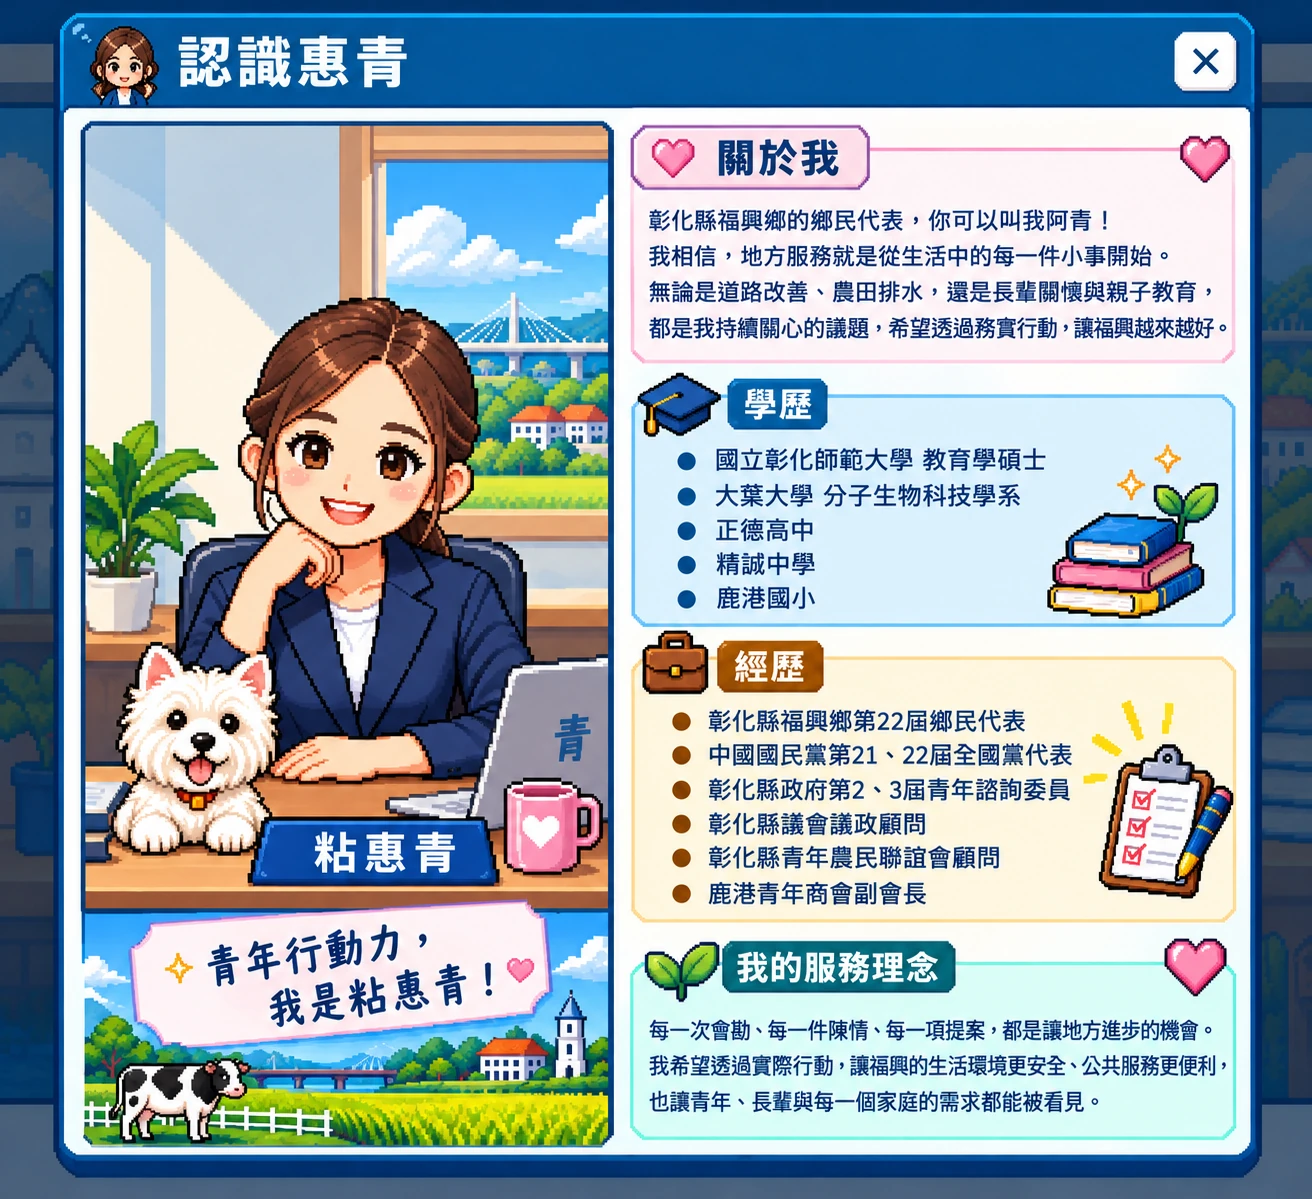
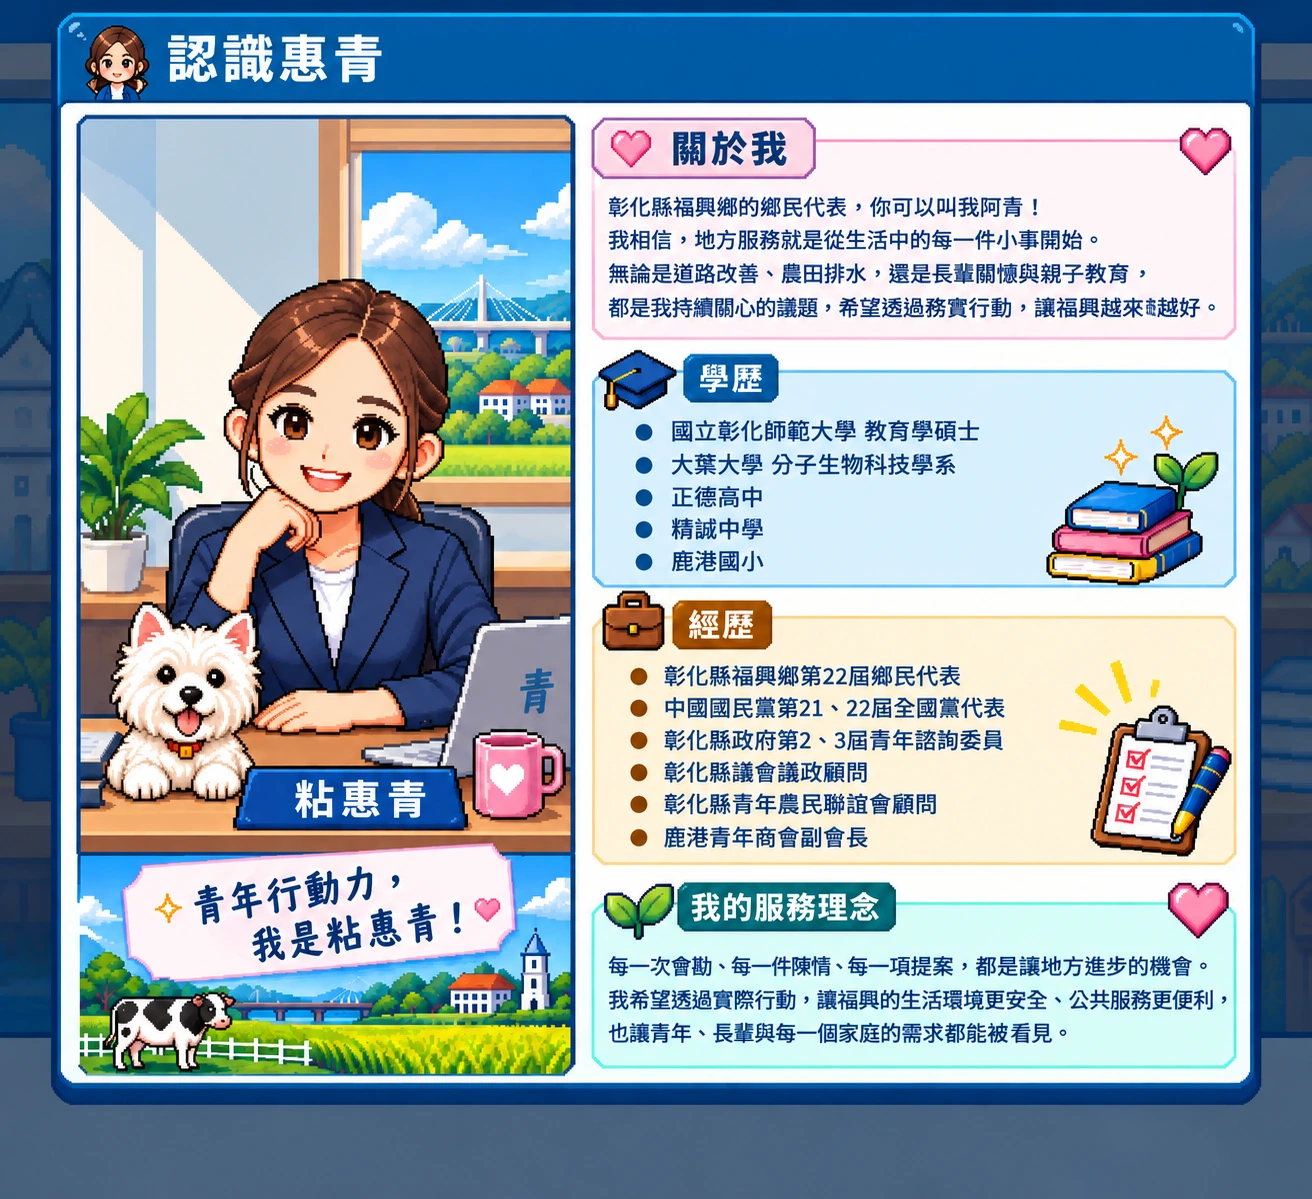
Add files via upload

diff --git a/index.html b/index.html
@@ -5,7 +5,7 @@
 <meta name="theme-color" content="#123e73"><meta name="description" content="粘惠青｜彰化縣福興鄉民代表，認識惠青、服務成果、活動訊息與聯絡資訊。">
 <title>粘惠青｜雲端競選總部</title>
 <style>
-:root{--navy:#123e73;--deep:#0b2e57;--ink:#18385d;--paper:#fffdf8}*{box-sizing:border-box}html{scroll-behavior:smooth}body{margin:0;background:#e8f3ff;color:var(--ink);font-family:system-ui,-apple-system,"Noto Sans TC",sans-serif}button,a{font:inherit}button{cursor:pointer}.site-header{background:var(--navy);color:#fff;display:flex;align-items:center;justify-content:space-between;gap:18px;padding:16px clamp(16px,5vw,68px);min-height:90px}.brand{display:flex;align-items:center;gap:16px}.brand-name{font-size:clamp(28px,3vw,45px);font-weight:900;letter-spacing:.12em;text-shadow:3px 3px #0b2e57}.brand-name span{color:#ff91b6;font-size:.6em}.brand-sub{font-size:clamp(12px,1.2vw,16px);line-height:1.5;letter-spacing:.05em}.nav{display:flex;gap:22px}.nav button,.menu-button{background:none;border:0;color:white;font-weight:700}.nav button:hover,.nav button:focus-visible{text-decoration:underline;text-underline-offset:8px}.menu-button{display:none;font-size:26px}.scene{max-width:1536px;margin:auto;position:relative;overflow:hidden;background:#9dd4fb}.scene img{display:block;width:100%;height:auto;image-rendering:auto}.dog-tip{position:absolute;left:17%;bottom:13%;border:2px solid #194b7d;background:#fffaf0;border-radius:12px;padding:8px 12px;box-shadow:4px 4px 0 #194b7d;font-weight:800;transform:rotate(-4deg);animation:bob 3s ease-in-out infinite}.dog-tip[hidden]{display:none}@keyframes bob{50%{transform:translateY(-7px) rotate(-4deg)}}.quick{max-width:1200px;margin:-8px auto 0;padding:18px 18px 32px;display:grid;grid-template-columns:repeat(4,1fr);gap:16px}.tile{border:3px solid #286199;box-shadow:5px 5px 0 #163e6b;border-radius:13px;padding:22px 12px;min-height:118px;display:flex;align-items:center;justify-content:center;gap:12px;font-size:clamp(16px,1.8vw,23px);font-weight:900;color:#103968;transition:transform .15s,box-shadow .15s}.tile:hover,.tile:focus-visible{transform:translateY(-5px);box-shadow:5px 10px 0 #163e6b}.tile .emoji{font-size:30px}.pink{background:#ffe8f1}.blue{background:#d8eeff}.cream{background:#fff1d8}.mint{background:#dcfaf2}.foot{text-align:center;padding:20px 12px 32px;color:#426387;font-size:13px}.overlay{position:fixed;inset:0;background:#092849ba;display:grid;place-items:center;padding:18px;z-index:5}.overlay[hidden]{display:none}.modal{background:var(--paper);border:4px solid #184b80;border-radius:15px;box-shadow:8px 8px 0 #072c53;max-width:570px;width:100%;max-height:85vh;overflow:auto}.modal-head{background:#184b80;color:white;display:flex;align-items:center;justify-content:space-between;padding:16px 20px;font-size:22px;font-weight:900}.close{border:2px solid white;border-radius:8px;background:#fff;color:#184b80;font-weight:900;width:38px;height:38px}.modal-body{padding:24px;font-size:16px;line-height:1.85}.modal-body h3{margin:12px 0 6px}.modal-body p{margin:8px 0 14px}.modal-body ul{padding-left:24px}.pill{display:inline-block;background:#e6f2ff;border:1px solid #a6c8e9;border-radius:99px;padding:4px 12px;margin:4px}.note{font-size:13px;color:#667a91}.contact{display:inline-block;background:#184b80;color:white;text-decoration:none;padding:8px 15px;border-radius:8px;margin-top:8px}.dog-trigger{position:absolute;left:11%;bottom:5%;width:24%;height:31%;background:transparent;border:0}.dog-trigger:focus-visible{outline:4px solid #ff8aa8;outline-offset:-4px}.modal.profile-mode{max-width:1100px;background:transparent;border:0;box-shadow:none;border-radius:0;overflow:visible;max-height:92vh}.profile-mode .modal-head{display:none}.profile-mode .modal-body{padding:0;max-height:92vh;overflow:auto;border-radius:12px;position:relative}.profile-card-img{display:block;width:100%;height:auto}.profile-close{position:sticky;float:right;z-index:2;top:10px;margin:14px 22px -60px 0;width:46px;height:46px;background:#fff;color:#123e73;border:2px solid #123e73;border-radius:8px;font-size:25px;font-weight:900}.profile-mobile-note{display:none}.profile-accessible{position:absolute;width:1px;height:1px;overflow:hidden;clip-path:inset(50%);white-space:nowrap}.mobile-nav{display:none}@media(max-width:760px){.modal.profile-mode{width:100%;max-height:90vh}.profile-mode .modal-body{max-height:88vh}.profile-card-img{width:760px;max-width:none}.profile-mobile-note{display:block;text-align:center;font-size:12px;background:#fff7e9;padding:7px;color:#123e73}.profile-close{margin:8px 10px -54px 0;width:40px;height:40px}.site-header{min-height:76px;padding:10px 14px}.brand{gap:10px}.brand-name{font-size:27px}.brand-sub{font-size:11px}.nav{display:none}.menu-button{display:block}.mobile-nav{background:#17497d;padding:12px;display:grid;grid-template-columns:repeat(2,1fr);gap:8px}.mobile-nav[hidden]{display:none}.mobile-nav button{padding:10px;color:#fff;background:#246096;border:1px solid #8bb9e6;border-radius:7px;font-weight:700}.scene img{width:100%}.dog-tip{left:8%;bottom:10%;font-size:11px;padding:5px}.quick{grid-template-columns:repeat(2,1fr);gap:11px;padding:16px 13px 24px}.tile{min-height:95px;padding:12px 5px;flex-direction:column;gap:5px;font-size:17px}.tile .emoji{font-size:25px}.dog-trigger{left:4%;width:29%}}@media(prefers-reduced-motion:reduce){*,*:before,*:after{animation:none!important;transition:none!important}}
+:root{--navy:#123e73;--deep:#0b2e57;--ink:#18385d;--paper:#fffdf8}*{box-sizing:border-box}html{scroll-behavior:smooth}body{margin:0;background:#e8f3ff;color:var(--ink);font-family:system-ui,-apple-system,"Noto Sans TC",sans-serif}button,a{font:inherit}button{cursor:pointer}.site-header{background:var(--navy);color:#fff;display:flex;align-items:center;justify-content:space-between;gap:18px;padding:16px clamp(16px,5vw,68px);min-height:90px}.brand{display:flex;align-items:center;gap:16px}.brand-name{font-size:clamp(28px,3vw,45px);font-weight:900;letter-spacing:.12em;text-shadow:3px 3px #0b2e57}.brand-name span{color:#ff91b6;font-size:.6em}.brand-sub{font-size:clamp(12px,1.2vw,16px);line-height:1.5;letter-spacing:.05em}.nav{display:flex;gap:22px}.nav button,.menu-button{background:none;border:0;color:white;font-weight:700}.nav button:hover,.nav button:focus-visible{text-decoration:underline;text-underline-offset:8px}.menu-button{display:none;font-size:26px}.scene{max-width:1536px;margin:auto;position:relative;overflow:hidden;background:#9dd4fb}.scene img{display:block;width:100%;height:auto;image-rendering:auto}.dog-tip{position:absolute;left:17%;bottom:13%;border:2px solid #194b7d;background:#fffaf0;border-radius:12px;padding:8px 12px;box-shadow:4px 4px 0 #194b7d;font-weight:800;transform:rotate(-4deg);animation:bob 3s ease-in-out infinite}.dog-tip[hidden]{display:none}@keyframes bob{50%{transform:translateY(-7px) rotate(-4deg)}}.quick{max-width:1200px;margin:-8px auto 0;padding:18px 18px 32px;display:grid;grid-template-columns:repeat(4,1fr);gap:16px}.tile{border:3px solid #286199;box-shadow:5px 5px 0 #163e6b;border-radius:13px;padding:22px 12px;min-height:118px;display:flex;align-items:center;justify-content:center;gap:12px;font-size:clamp(16px,1.8vw,23px);font-weight:900;color:#103968;transition:transform .15s,box-shadow .15s}.tile:hover,.tile:focus-visible{transform:translateY(-5px);box-shadow:5px 10px 0 #163e6b}.tile .emoji{font-size:30px}.pink{background:#ffe8f1}.blue{background:#d8eeff}.cream{background:#fff1d8}.mint{background:#dcfaf2}.foot{text-align:center;padding:20px 12px 32px;color:#426387;font-size:13px}.overlay{position:fixed;inset:0;background:#092849ba;display:grid;place-items:center;padding:18px;z-index:5}.overlay[hidden]{display:none}.modal{background:var(--paper);border:4px solid #184b80;border-radius:15px;box-shadow:8px 8px 0 #072c53;max-width:570px;width:100%;max-height:85vh;overflow:auto}.modal-head{background:#184b80;color:white;display:flex;align-items:center;justify-content:space-between;padding:16px 20px;font-size:22px;font-weight:900}.close{border:2px solid white;border-radius:8px;background:#fff;color:#184b80;font-weight:900;width:38px;height:38px}.modal-body{padding:24px;font-size:16px;line-height:1.85}.modal-body h3{margin:12px 0 6px}.modal-body p{margin:8px 0 14px}.modal-body ul{padding-left:24px}.pill{display:inline-block;background:#e6f2ff;border:1px solid #a6c8e9;border-radius:99px;padding:4px 12px;margin:4px}.note{font-size:13px;color:#667a91}.contact{display:inline-block;background:#184b80;color:white;text-decoration:none;padding:8px 15px;border-radius:8px;margin-top:8px}.dog-trigger{position:absolute;left:11%;bottom:5%;width:24%;height:31%;background:transparent;border:0}.dog-trigger:focus-visible{outline:4px solid #ff8aa8;outline-offset:-4px}.modal.profile-mode{max-width:1100px;background:transparent;border:0;box-shadow:none;border-radius:0;overflow:visible;max-height:92vh}.profile-mode .modal-head{display:none}.profile-mode .modal-body{padding:0;max-height:92vh;overflow:auto;border-radius:12px;position:relative}.profile-card-img{display:block;width:100%;height:auto}.profile-close{position:sticky;display:block;z-index:2;bottom:0;margin:8px auto 0;width:auto;height:auto;padding:10px 24px;background:#fff;color:#123e73;border:2px solid #123e73;border-radius:8px;font-size:16px;font-weight:900}.profile-mobile-note{display:none}.profile-accessible{position:absolute;width:1px;height:1px;overflow:hidden;clip-path:inset(50%);white-space:nowrap}.mobile-nav{display:none}@media(max-width:760px){.modal.profile-mode{width:100%;max-height:90vh}.profile-mode .modal-body{max-height:88vh}.profile-card-img{width:760px;max-width:none}.profile-mobile-note{display:block;text-align:center;font-size:12px;background:#fff7e9;padding:7px;color:#123e73}.profile-close{margin:8px auto 0;width:auto;height:auto}.site-header{min-height:76px;padding:10px 14px}.brand{gap:10px}.brand-name{font-size:27px}.brand-sub{font-size:11px}.nav{display:none}.menu-button{display:block}.mobile-nav{background:#17497d;padding:12px;display:grid;grid-template-columns:repeat(2,1fr);gap:8px}.mobile-nav[hidden]{display:none}.mobile-nav button{padding:10px;color:#fff;background:#246096;border:1px solid #8bb9e6;border-radius:7px;font-weight:700}.scene img{width:100%}.dog-tip{left:8%;bottom:10%;font-size:11px;padding:5px}.quick{grid-template-columns:repeat(2,1fr);gap:11px;padding:16px 13px 24px}.tile{min-height:95px;padding:12px 5px;flex-direction:column;gap:5px;font-size:17px}.tile .emoji{font-size:25px}.dog-trigger{left:4%;width:29%}}@media(prefers-reduced-motion:reduce){*,*:before,*:after{animation:none!important;transition:none!important}}
 </style>
 </head>
 <body>
@@ -16,7 +16,7 @@
 <script>
 const pages={about:{title:'👩🏻💼 認識惠青',html:`<div class="profile-mobile-note">📱 可左右滑動查看完整人物資料卡</div><img class="profile-card-img" src="assets/profile-card.webp" alt="粘惠青 8-bit 人物資料卡，介紹教育學碩士學歷、公共服務經歷、服務理念，並有福興鄉乳牛及稻田風景" loading="eager"><div class="profile-accessible"><h3>大家好，我是粘惠青！</h3><p>彰化縣福興鄉的鄉民代表，你可以叫我阿青！</p><p>我相信，地方服務就是從生活中的每一件小事開始。無論是道路改善、農田排水，還是長輩關懷與親子教育，都是我持續關心的議題。</p><h3>學歷</h3><ul><li>國立彰化師範大學 教育學碩士</li><li>大葉大學 分子生物科技學系</li><li>正德高中</li><li>精誠中學</li><li>鹿港國小</li></ul><h3>經歷</h3><ul><li>彰化縣福興鄉第22屆鄉民代表</li><li>中國國民黨第21、22屆全國黨代表</li><li>彰化縣政府第2、3屆青年諮詢委員</li><li>彰化縣議會議政顧問</li><li>彰化縣青年農民聯誼會顧問</li><li>鹿港青年商會副會長</li></ul><h3>我的服務理念</h3><p>每一次會勘、每一件陳情、每一項提案，都是讓地方進步的機會。</p><p>我希望透過實際行動，讓福興的生活環境更安全、公共服務更便利，也讓青年、長輩與每一個家庭的需求都能被看見。</p><p>青年行動力，我是粘惠青！</p></div>`},works:{title:'🚧 服務成果',html:`<h3>讓改變看得見</h3><ul><li><b>道路改善：</b>關注路面品質及通行安全。</li><li><b>排水建設：</b>協調農田排水及地方水路改善。</li><li><b>環境衛生：</b>關注垃圾清運及登革熱防治。</li><li><b>教育與親子：</b>推廣親子參與及體驗活動。</li></ul><p class="note">此為分類展示，個別案件的成果、照片與辦理進度需核對後上架。</p>`},events:{title:'🗓 活動訊息',html:`<h3>近期活動與地方公告</h3><p>📌 光復節連假垃圾清運資訊</p><p>📌 地方道路與排水會勘消息</p><p>📌 社區及親子活動公告</p><p class="note">展示項目，正式發布前將更新日期、內容及相關連結。</p>`},contact:{title:'📞 聯絡我',html:`<h3>有需要，歡迎聯絡惠青</h3><p>地方建設建議、民眾服務及活動合作，都歡迎透過正式聯絡管道反映。</p><p>Facebook 粉絲專頁、LINE 與服務電話將在取得正確資訊後加入。</p><p class="note">目前為網站測試版，尚未開放線上留言或蒐集個人資料。</p>`}};
 const overlay=document.getElementById('overlay'),modal=document.querySelector('.modal'),title=document.getElementById('modal-title'),body=document.getElementById('modal-body');let lastFocus=null;
-function openPage(page){if(page==='home'){closePage();scrollTo({top:0,behavior:'smooth'});return}const data=pages[page];if(!data)return;lastFocus=document.activeElement;title.textContent=data.title;body.innerHTML=data.html;modal.classList.toggle('profile-mode',page==='about');document.getElementById('close').classList.toggle('profile-close',page==='about');if(page==='about'){body.prepend(document.getElementById('close'))}else{document.querySelector('.modal-head').append(document.getElementById('close'))}overlay.hidden=false;document.body.style.overflow='hidden';document.getElementById('close').focus();document.getElementById('mobile-nav').hidden=true;document.getElementById('menu').setAttribute('aria-expanded','false')}
+function openPage(page){if(page==='home'){closePage();scrollTo({top:0,behavior:'smooth'});return}const data=pages[page];if(!data)return;lastFocus=document.activeElement;title.textContent=data.title;body.innerHTML=data.html;modal.classList.toggle('profile-mode',page==='about');document.getElementById('close').classList.toggle('profile-close',page==='about');if(page==='about'){body.append(document.getElementById('close'));document.getElementById('close').textContent='← 返回首頁'}else{document.querySelector('.modal-head').append(document.getElementById('close'));document.getElementById('close').textContent='✕'}overlay.hidden=false;document.body.style.overflow='hidden';document.getElementById('close').focus();document.getElementById('mobile-nav').hidden=true;document.getElementById('menu').setAttribute('aria-expanded','false')}
 function closePage(){overlay.hidden=true;document.body.style.overflow='';lastFocus?.focus()}
 document.querySelectorAll('[data-page]').forEach(b=>b.addEventListener('click',()=>openPage(b.dataset.page)));document.getElementById('close').addEventListener('click',closePage);overlay.addEventListener('click',e=>{if(e.target===overlay)closePage()});document.addEventListener('keydown',e=>{if(e.key==='Escape'&&!overlay.hidden)closePage()});document.getElementById('menu').addEventListener('click',()=>{const nav=document.getElementById('mobile-nav');nav.hidden=!nav.hidden;document.getElementById('menu').setAttribute('aria-expanded',String(!nav.hidden))});document.getElementById('dog').addEventListener('click',()=>{const tip=document.getElementById('dog-tip');tip.hidden=!tip.hidden});
 </script>
